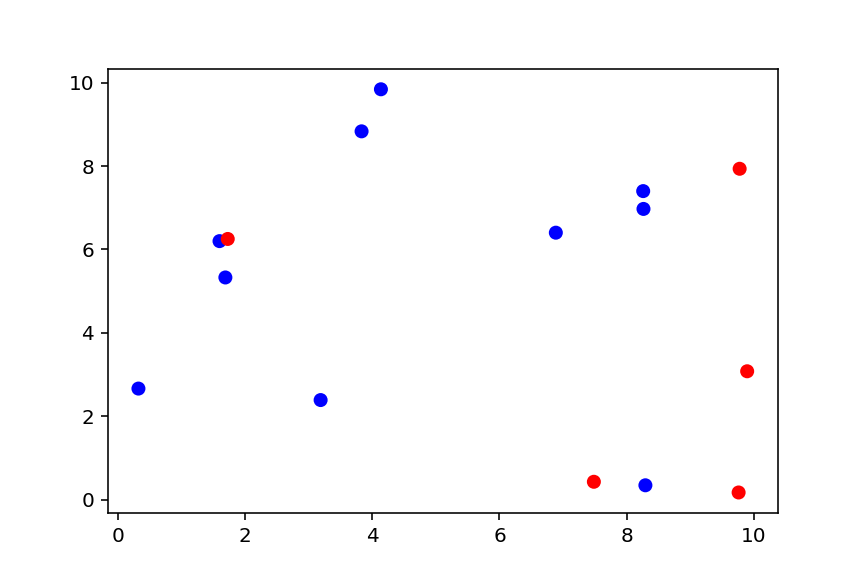
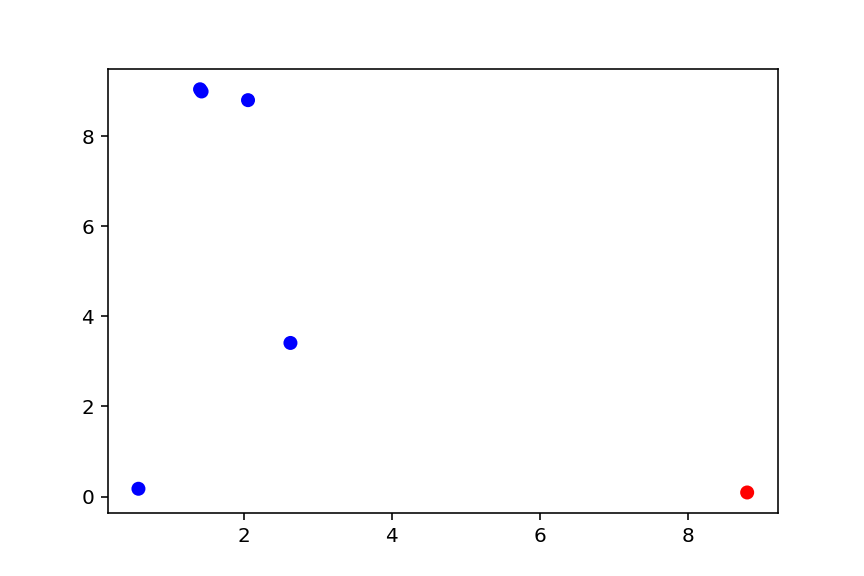
minor changes

diff --git a/entity_class.py b/entity_class.py
@@ -420,7 +420,10 @@ class entity:
         old_phi = math.atan2(old_direction[1], old_direction[0])
         
         #get the random angle
-        smoothing_param = param_dict["smooth_rand_walk"] #this has to be between 0-1, zero means he will follow a straight line
+        #this has to be between 0-1, zero means he will follow a straight line
+        try: smoothing_param = param_dict["smooth_rand_walk"]
+        except KeyError: raise KeyError("param_dict is missing the required 'bite_r_Z_H' key.")
+        
         
         smooth_phi = rng.uniform(-np.pi * smoothing_param, np.pi * smoothing_param)
         
@@ -454,31 +457,13 @@ class entity:
         ##INFO
         #change the zombie velocity  vector, so that i points to the closes human & with max_zombie_speed
         
-        #get index closest human in zombi heap = [(dist2, ent_idx), ...,...,...]
-        ent_idx = self.heap[0][1]
-        
-        #get position of this nearest human by using his index
-        position_nearest_human = entities[ent_idx].pos
-        
-        #now that we finally know the alerter human for the zombie we can store it, not
-        #really necessary but if we ever want to check who the alerter was we can check for it easily
-        self.change_pos_alerter(position_nearest_human) 
-
-        #get vector from position zombie pointing to position human
-        zombie_to_human_vector = position_nearest_human - self.pos
-        
-        #get the distance
-        distance_zombie_to_human = self.get_distance(position_nearest_human) 
-        
-        #compare distance to really small float, so we never to a div by zero 
-        #in the line after
-        safe_distance = max(distance_zombie_to_human, math.nextafter(0, 1.0))
-
-        #get the new unit vector whichs points the zombi to the human
-        new_zombie_direction = zombie_to_human_vector / safe_distance
-        
-        #to this direction multiply the max_speed_Z to get new velocity of zombie and store it there
-        self.change_velocity(new_zombie_direction * self.max_speed_Z)
+        distance = self.get_distance(self.pos_alerter)
+        if distance == 0:
+            raise ValueError("Division by zero in human_awareness_walk(): " \
+            "Zombie and Human are at the EXACT same spot! Check function for more Information")
+ 
+        run_direction = (self.pos_alerter - self.pos)/distance # unit vector of direction
+        self.change_velocity(run_direction*self.max_speed_H)
 
         return 
     
@@ -543,7 +528,7 @@ class entity:
             raise ValueError("Division by zero in human_awareness_walk(): " \
             "Zombie and Human are at the EXACT same spot! Check function for more Information")
  
-        run_direction = -(self.pos_alerter - self.pos)/distance # unit vector of direction
+        run_direction = (self.pos_alerter - self.pos)/distance # unit vector of direction
         self.change_velocity(run_direction*self.max_speed_H)
 
 

diff --git a/run.py b/run.py
@@ -8,7 +8,8 @@ from anim_func import *
 xbounds = (0.0,10.0)
 ybounds = (0.,10.)
 
-param_dict = create_parameter_dict(n_H=10, n_Z=5,timestep=.08, n_steps=100, bite_r_Z_H = 0.002, 
+param_dict = create_parameter_dict(n_H=5, n_Z=1,timestep=.08, n_steps=150, smooth_rand_walk = 0.,
+                                   walking_speed_Z = 2.,awareness_r_Z = 0.7,
                                    x_bounds=np.array(xbounds), y_bounds=np.array(ybounds))
 
 entities = Initialize_entities(param_dict)
